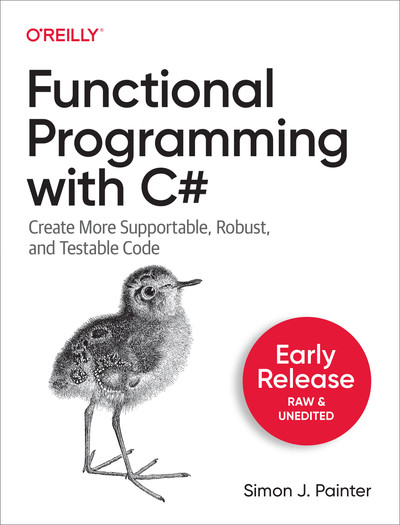
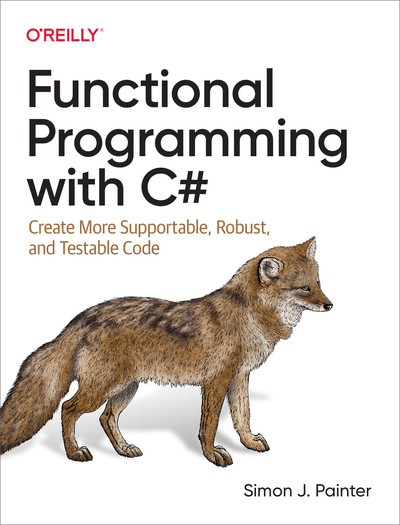
update book page

Changed region(s): [[0.0, 0.4267, 0.93, 0.9448], [0.39, 0.9448, 0.42, 0.9752]]

diff --git a/book.md b/book.md
@@ -6,8 +6,16 @@ layout: default
 	<div class="center">
     <h2>BOOK</h2>
     <hr/>
-		<p>I'm very, very priviliged to be able to announce that I've got a book coming out with O'Reilly publishing.  Likely to be in shops some time next year.  It's going to be about Functional Programming in C#,and the pre-release version is already available on the O'Reilly Learning platform.  </p>
+		<p>I was very fortunate indeed to be approached by O'Reilly media in 2021 to discuss writing a book for them on Functional-style C#.  After nearly 2 years of work, it was published in September 2023.  It's available now on a number of platforms, including:</p>
 		
 	<a href="https://learning.oreilly.com/library/view/functional-programming-with/9781492097068/"><img src="/Content/img/oreillycover.jpg">
-	<h3>Functional Programming with C# - by Simon J. Painter</h3></a>
+	<ul>
+	
+		<li><a href="https://www.oreilly.com/library/view/functional-programming-with/9781492097068/">The O'Reilly Platform</a></li>
+		<li><a href="https://www.amazon.co.uk/Functional-Programming-with-C/dp/1492097071">Amazon UK</a></li>
+		<li><a href="https://www.amazon.com/Functional-Programming-with-C/dp/1492097071">Amazon US</a></li>
+		<li><a href="https://www.waterstones.com/book/functional-programming-with-c/simon-painter/9781492097075">Waterstones</a></li>
+	</ul>
+	
+	<p>I hope you enjoy it!  I'd love to hear from you either way.</p>
 		
